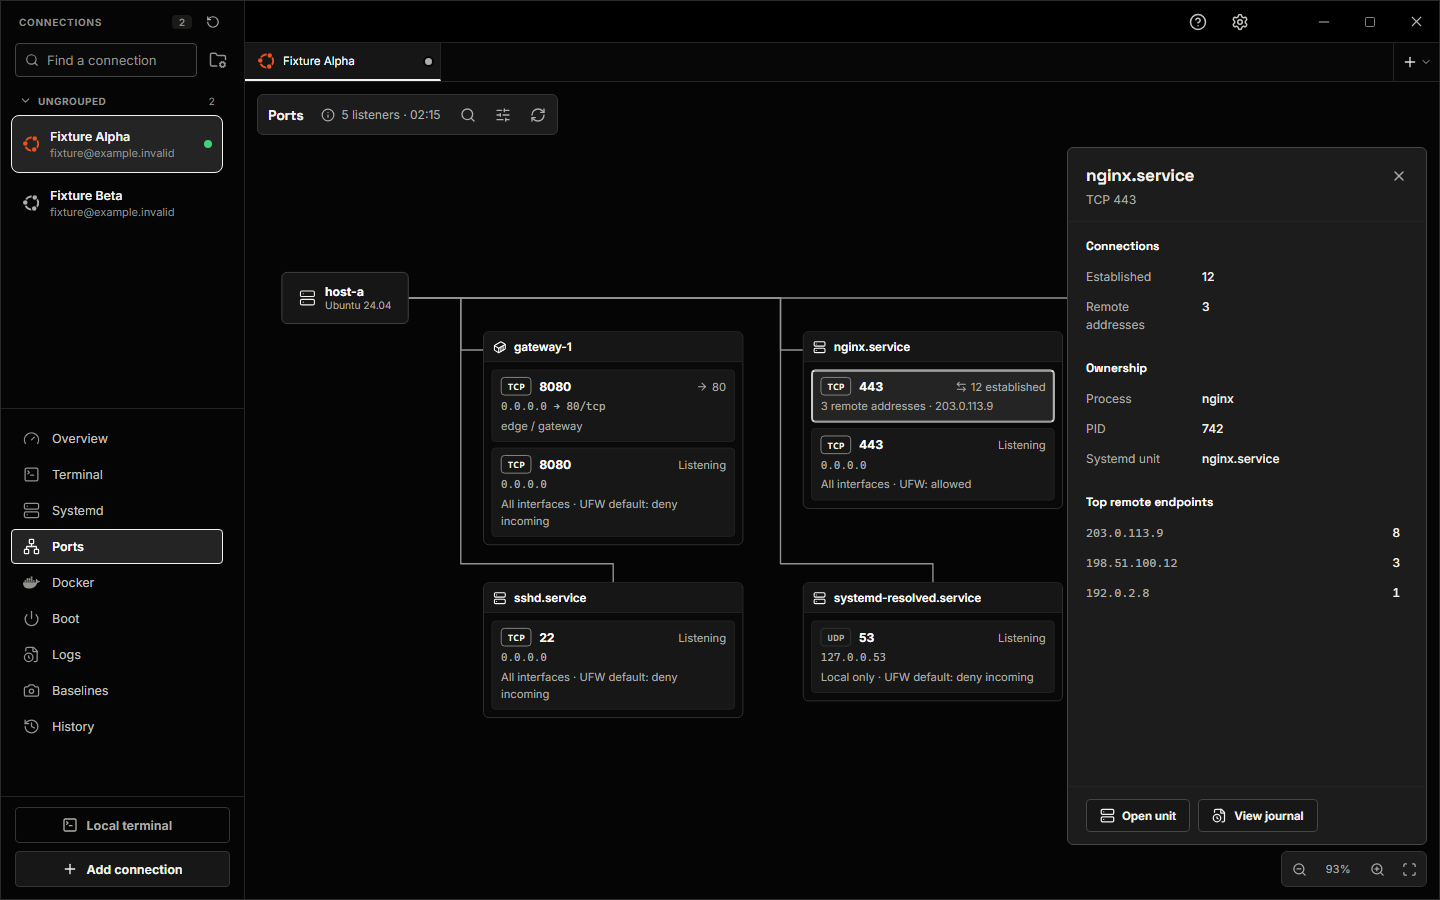
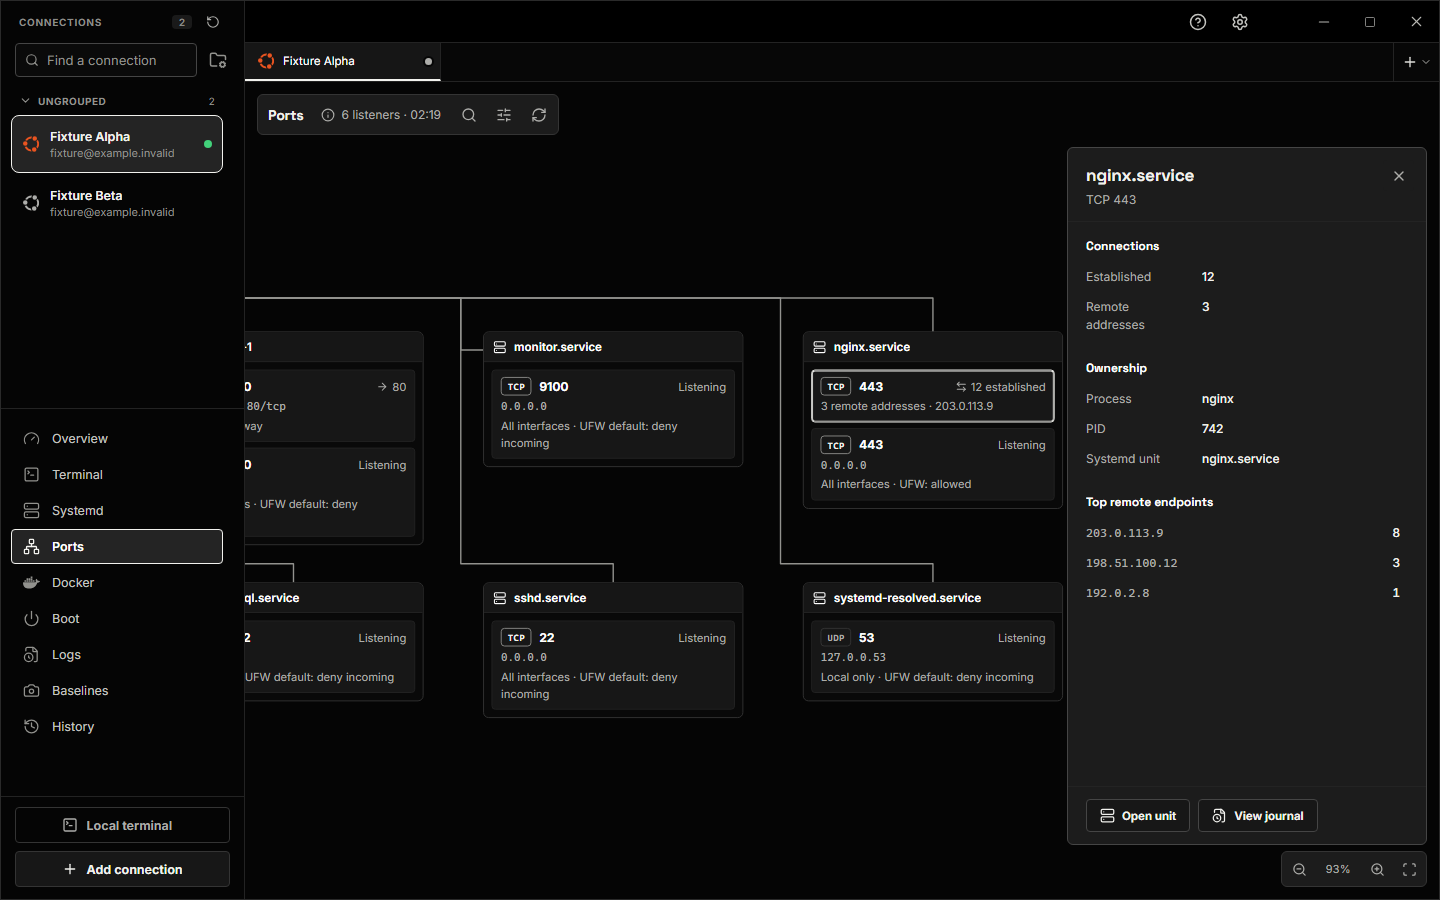
Attach the rightmost branch to the top of its first card

diff --git a/src/app-journeys.browser.test.tsx b/src/app-journeys.browser.test.tsx
@@ -2436,6 +2436,13 @@ describe("complete app journeys with typed IPC fixtures", () => {
         systemdUnit: "nginx.service",
         processName: "nginx",
       },
+      {
+        ...fixtures.socket,
+        id: "monitor",
+        port: 9100,
+        systemdUnit: "monitor.service",
+        processName: "monitor",
+      },
       { ...fixtures.socket, id: "ssh", port: 22, systemdUnit: "sshd.service", processName: "sshd" },
       {
         ...fixtures.socket,
@@ -2514,10 +2521,16 @@ describe("complete app journeys with typed IPC fixtures", () => {
     await mount();
     await navigate("Ports");
     await expect.element(page.getByRole("button", { name: /12 established/ })).toBeVisible();
-    expect(element.querySelectorAll(".arch-chip")).toHaveLength(7);
+    expect(element.querySelectorAll(".arch-chip")).toHaveLength(8);
     expect(element.querySelector(".owner-container .lucide-container")).toBeTruthy();
     // Every orthogonal segment must stay outside unrelated owner cards.
     const cards = [...element.querySelectorAll<HTMLElement>(".arch-group")];
+    const rightmost = Math.max(...cards.map((card) => card.offsetLeft));
+    const finalColumn = cards.filter((card) => card.offsetLeft === rightmost);
+    expect(finalColumn.length).toBeGreaterThan(1);
+    const firstOnFinalColumn = finalColumn.reduce((first, card) =>
+      card.offsetTop < first.offsetTop ? card : first,
+    );
     const paths = [...element.querySelectorAll(".arch-links path")];
     expect(paths).toHaveLength(cards.length);
     for (const [index, path] of paths.entries()) {
@@ -2538,8 +2551,9 @@ describe("complete app journeys with typed IPC fixtures", () => {
       const lastInColumn = !cards.some(
         (card) => card.offsetLeft === target.offsetLeft && card.offsetTop > target.offsetTop,
       );
-      expect(x).toBe(target.offsetLeft + (lastInColumn ? target.offsetWidth / 2 : 0));
-      expect(y).toBe(target.offsetTop + (lastInColumn ? 0 : 20));
+      const entersTop = lastInColumn || target === firstOnFinalColumn;
+      expect(x).toBe(target.offsetLeft + (entersTop ? target.offsetWidth / 2 : 0));
+      expect(y).toBe(target.offsetTop + (entersTop ? 0 : 20));
       for (const card of cards) {
         const left = card.offsetLeft,
           right = left + card.offsetWidth;

diff --git a/src/components/ports/PortsGraph.tsx b/src/components/ports/PortsGraph.tsx
@@ -198,18 +198,28 @@ export function PortsGraph({
     const hostY = host.offsetTop + host.offsetHeight / 2;
     const next: { id: string; d: string }[] = [];
     const lastRowByColumn = new Map<number, number>();
+    const firstRowByColumn = new Map<number, number>();
     const countByColumn = new Map<number, number>();
     for (const element of groupRefs.current.values()) {
+      firstRowByColumn.set(
+        element.offsetLeft,
+        Math.min(firstRowByColumn.get(element.offsetLeft) ?? Infinity, element.offsetTop),
+      );
       countByColumn.set(element.offsetLeft, (countByColumn.get(element.offsetLeft) ?? 0) + 1);
       lastRowByColumn.set(
         element.offsetLeft,
         Math.max(lastRowByColumn.get(element.offsetLeft) ?? 0, element.offsetTop),
       );
     }
+    const rightmostColumn = Math.max(...lastRowByColumn.keys());
     groupRefs.current.forEach((element, id) => {
       const x = element.offsetLeft;
       const lane = x - 24;
-      if (element.offsetTop === lastRowByColumn.get(x)) {
+      if (x === rightmostColumn && element.offsetTop === firstRowByColumn.get(x)) {
+        // The horizontal bus ends at the top of the rightmost branch's first card.
+        const center = x + element.offsetWidth / 2;
+        next.push({ id, d: `M${hostX},${hostY} H${center} V${element.offsetTop}` });
+      } else if (element.offsetTop === lastRowByColumn.get(x)) {
         // End the trunk in the row gutter and enter its final card from above.
         const top = element.offsetTop;
         const center = x + element.offsetWidth / 2;

diff --git a/DESIGN.md b/DESIGN.md
@@ -146,7 +146,9 @@ filters, and reading information in one compact toolbar, with search and filter
 panels opening on demand. Keep zoom controls in the lower corner. Route owner
 branches orthogonally through reserved gutters, never through other cards.
 Use side connections where a column continues and enter its final card from
-the top, ending the branch at the card. Group listening
+the top, ending the branch at the card. End the horizontal bus at the top of
+the rightmost column's first card, even when that column has more cards below.
+Group listening
 sockets, established connections, and published Docker mappings by their known
 owners. Preserve each source as separate evidence, including mappings and
 outbound connections with no listening socket. Selecting a port or connection
